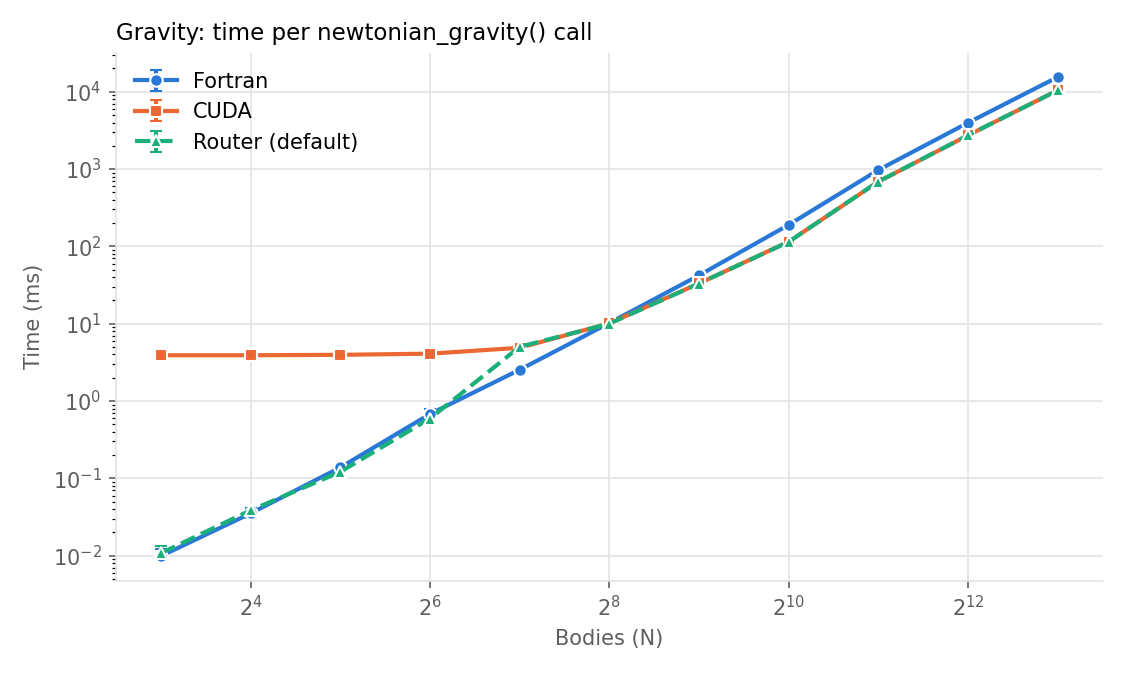
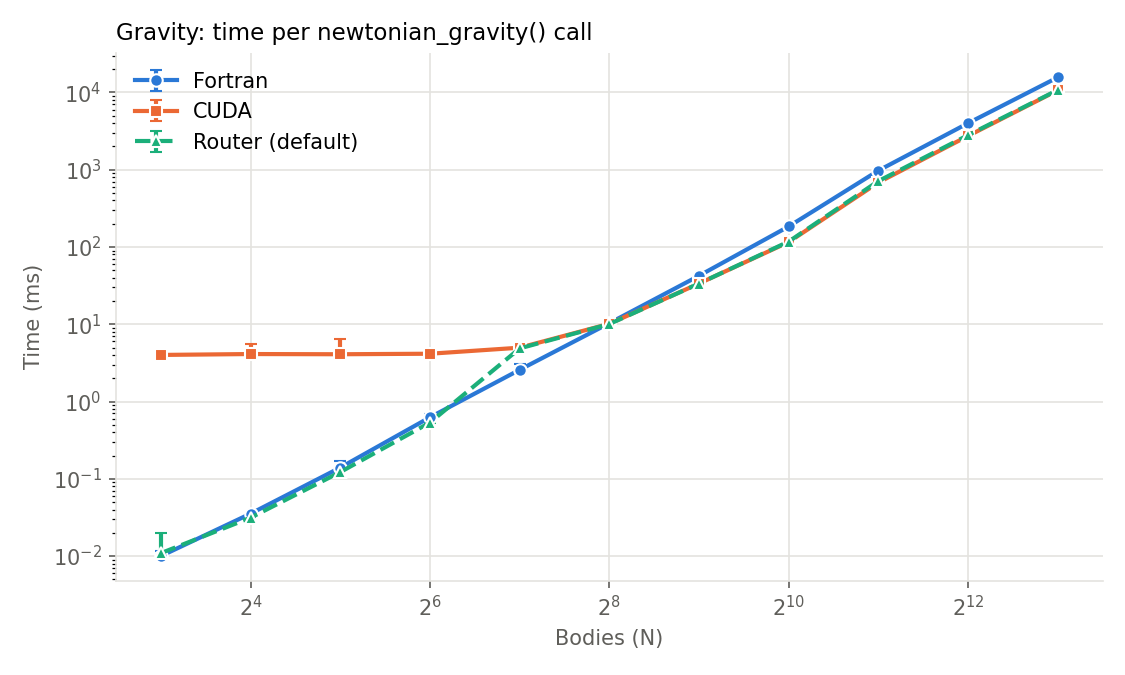
Rerun the benchmarks with the fixed driver
Sim tick times no longer include the gravity call sim_run() makes before
its first tick, so they come out about 8-10% lower at N = 4096.
CROSSOVER.md, ENVIRONMENT.md, the plots and the README results are
regenerated from the new run.

The crossover is still between N = 128 and 256 (about 251), and the best
speedup is 1.59x at N = 1024. At N = 256 CUDA and Fortran are within
each other's run-to-run spread, so the README calls it break-even. The
64-body threshold is still too low.

diff --git a/benchmarks/CROSSOVER.md b/benchmarks/CROSSOVER.md
@@ -1,28 +1,28 @@
 # Fortran vs CUDA Crossover
 
-Generated by `benchmarks/crossover.py` from `results/bench_20261120T132832Z.csv`.
+Generated by `benchmarks/crossover.py` from `results/bench_20261121T224205Z.csv`.
 Hardware and toolchain: see [ENVIRONMENT.md](ENVIRONMENT.md).
 
 Gravity only (`newtonian_gravity`), one call per run, median of 10 runs with min to max in brackets. Speedup is Fortran median / CUDA median.
 
 | N | Fortran (ms) | CUDA (ms) | Router (ms) | Speedup |
 |---|---|---|---|---|
-| 8 | 0.010 [0.010-0.012] | 3.913 [3.903-3.939] | 0.011 | 0.00253x |
-| 16 | 0.035 [0.035-0.041] | 3.912 [3.893-3.954] | 0.039 | 0.00902x |
-| 32 | 0.138 [0.132-0.146] | 3.958 [3.947-3.977] | 0.121 | 0.0349x |
-| 64 | 0.680 [0.625-0.789] | 4.099 [4.078-4.143] | 0.594 | 0.166x |
-| 128 | 2.539 [2.523-2.562] | 4.884 [4.865-4.895] | 5.027 | 0.52x |
-| 256 | 10.210 [10.165-10.358] | 10.106 [9.968-10.201] | 10.006 | 1.01x |
-| 512 | 42.223 [41.493-42.438] | 33.215 [32.866-33.643] | 33.116 | 1.27x |
-| 1024 | 189.923 [180.869-203.081] | 114.984 [114.144-116.537] | 114.656 | 1.65x |
-| 2048 | 972.244 [969.909-980.707] | 685.144 [681.561-693.566] | 688.942 | 1.42x |
-| 4096 | 3970.203 [3963.456-3987.243] | 2730.904 [2724.727-2738.363] | 2731.334 | 1.45x |
-| 8192 | 15480.114 [15467.053-15521.052] | 10421.854 [10366.538-10515.161] | 10420.476 | 1.49x |
+| 8 | 0.010 [0.010-0.012] | 4.007 [3.960-4.120] | 0.011 | 0.0025x |
+| 16 | 0.035 [0.035-0.036] | 4.115 [4.029-5.538] | 0.031 | 0.0086x |
+| 32 | 0.140 [0.139-0.171] | 4.089 [3.985-6.437] | 0.122 | 0.0342x |
+| 64 | 0.625 [0.590-0.691] | 4.154 [4.114-4.195] | 0.534 | 0.15x |
+| 128 | 2.573 [2.517-3.064] | 4.973 [4.890-5.122] | 4.869 | 0.517x |
+| 256 | 10.322 [10.140-10.633] | 10.128 [10.033-11.246] | 10.065 | 1.02x |
+| 512 | 42.410 [41.831-43.029] | 33.669 [32.896-35.327] | 33.624 | 1.26x |
+| 1024 | 184.333 [182.300-187.986] | 115.752 [115.248-118.606] | 117.508 | 1.59x |
+| 2048 | 973.782 [968.019-988.375] | 682.294 [679.470-693.271] | 712.505 | 1.43x |
+| 4096 | 4000.407 [3972.851-4026.129] | 2735.317 [2729.322-2819.304] | 2800.571 | 1.46x |
+| 8192 | 15654.362 [15559.033-15865.229] | 10644.255 [10560.888-10755.820] | 10741.557 | 1.47x |
 
 ## Result
 
 - CUDA is faster at N = 256 and every larger N measured.
-- The crossover lies between N = 128 and N = 256; interpolating the speedup in log-log gives N ≈ 253.
-- Spread at N = 256: CUDA 9.968-10.201 ms, Fortran 10.165-10.358 ms (ranges overlap).
+- The crossover lies between N = 128 and N = 256; interpolating the speedup in log-log gives N ≈ 251.
+- Spread at N = 256: CUDA 10.033-11.246 ms, Fortran 10.140-10.633 ms (ranges overlap).
 - The current threshold of 64 is too low: CUDA is still slower than Fortran just above it.
-- Best measured speedup: 1.65x at N = 1024.
+- Best measured speedup: 1.59x at N = 1024.

diff --git a/benchmarks/ENVIRONMENT.md b/benchmarks/ENVIRONMENT.md
@@ -1,9 +1,9 @@
 # Benchmark Environment
 
-Generated by `record_env.sh` on 2026-11-20T13:28:32Z.
+Generated by `record_env.sh` on 2026-11-21T22:42:05Z.
 
 Benchmarks are built in `build/bench` with `CMAKE_BUILD_TYPE=Release`
-and the default compilers listed below.
+and the compilers CMake picked for it, listed below.
 
 ## GPU
 
@@ -22,27 +22,27 @@ Cuda compilation tools, release 12.1, V12.1.105
 Build cuda_12.1.r12.1/compiler.32688072_0
 ```
 
-## gcc
+## C compiler
 
 ```
-gcc (Ubuntu 14.2.0-4ubuntu2) 14.2.0
+cc (Ubuntu 14.2.0-4ubuntu2) 14.2.0
 Copyright (C) 2024 Free Software Foundation, Inc.
 This is free software; see the source for copying conditions.  There is NO
 warranty; not even for MERCHANTABILITY or FITNESS FOR A PARTICULAR PURPOSE.
 
 ```
 
-## g++
+## C++ compiler
 
 ```
-g++ (Ubuntu 14.2.0-4ubuntu2) 14.2.0
+c++ (Ubuntu 14.2.0-4ubuntu2) 14.2.0
 Copyright (C) 2024 Free Software Foundation, Inc.
 This is free software; see the source for copying conditions.  There is NO
 warranty; not even for MERCHANTABILITY or FITNESS FOR A PARTICULAR PURPOSE.
 
 ```
 
-## gfortran
+## Fortran compiler
 
 ```
 GNU Fortran (Ubuntu 14.2.0-4ubuntu2) 14.2.0
@@ -78,10 +78,10 @@ Core(s) per socket:                   8
 Socket(s):                            1
 Stepping:                             0
 Frequency boost:                      enabled
-CPU(s) scaling MHz:                   70%
+CPU(s) scaling MHz:                   69%
 CPU max MHz:                          4851.0000
 CPU min MHz:                          550.0000
-BogoMIPS:                             7599.88
+BogoMIPS:                             7600.19
 Flags:                                fpu vme de pse tsc msr pae mce cx8 apic sep mtrr pge mca cmov pat pse36 clflush mmx fxsr sse sse2 ht syscall nx mmxext fxsr_opt pdpe1gb rdtscp lm constant_tsc rep_good nopl xtopology nonstop_tsc cpuid extd_apicid aperfmperf rapl pni pclmulqdq monitor ssse3 fma cx16 sse4_1 sse4_2 x2apic movbe popcnt aes xsave avx f16c rdrand lahf_lm cmp_legacy svm extapic cr8_legacy abm sse4a misalignsse 3dnowprefetch osvw ibs skinit wdt tce topoext perfctr_core perfctr_nb bpext perfctr_llc mwaitx cpb cat_l3 cdp_l3 hw_pstate ssbd mba ibrs ibpb stibp vmmcall fsgsbase bmi1 avx2 smep bmi2 erms invpcid cqm rdt_a rdseed adx smap clflushopt clwb sha_ni xsaveopt xsavec xgetbv1 xsaves cqm_llc cqm_occup_llc cqm_mbm_total cqm_mbm_local user_shstk clzero irperf xsaveerptr rdpru wbnoinvd arat npt lbrv svm_lock nrip_save tsc_scale vmcb_clean flushbyasid decodeassists pausefilter pfthreshold avic v_vmsave_vmload vgif v_spec_ctrl umip pku ospke vaes vpclmulqdq rdpid overflow_recov succor smca fsrm debug_swap
 Virtualization:                       AMD-V
 L1d cache:                            256 KiB (8 instances)

diff --git a/README.md b/README.md
@@ -63,9 +63,9 @@ Halving the time step cuts the orbit error by 3.98x, 4.00x and 4.00x, so the int
 
 Each backend is forced explicitly and timed over 10 runs after a warm-up ([benchmarks/CROSSOVER.md](benchmarks/CROSSOVER.md)):
 
-- CUDA first beats Fortran at **N = 256** and keeps winning at every larger N measured. The crossover is between 128 and 256 bodies (about 253 by log-log interpolation); at 256 the two are within each other's run-to-run spread.
-- The current 64-body threshold is **too low**. At N = 128 the router picks CUDA and takes 5.0 ms where Fortran takes 2.5 ms.
-- The best speedup is **1.65x at N = 1024** (RTX 3070 vs one Ryzen 7 5800X core; driver 580.196.07, CUDA 12.1, GCC 14.2, Linux 6.11).
+- CUDA first beats Fortran at **N = 256** and keeps winning at every larger N measured. The crossover is between 128 and 256 bodies (about 251 by log-log interpolation). At 256 the two are within each other's run-to-run spread (CUDA 10.1 ms, Fortran 10.3 ms), and an earlier run had CUDA slightly slower there, so treat 256 as the break-even point rather than a clear win.
+- The current 64-body threshold is **too low**. At N = 128 the router picks CUDA and takes 4.9 ms where Fortran takes 2.6 ms.
+- The best speedup is **1.59x at N = 1024** (RTX 3070 vs one Ryzen 7 5800X core; driver 580.196.07, CUDA 12.1, GCC 14.2, Linux 6.11).
 - The speedup stays small because the CUDA path copies every intermediate matrix to and from the GPU. Profiling one call at N = 4096 shows about 2.1 s in `cudaMemcpy` against 0.09 s in kernels, and the kernels themselves are limited by FP64 throughput ([benchmarks/PROFILE.md](benchmarks/PROFILE.md)).
 - Gravity uses about 12 N x N matrices at its peak, so runs stop at N = 8192; 16384 would need about 26 GB.
 
